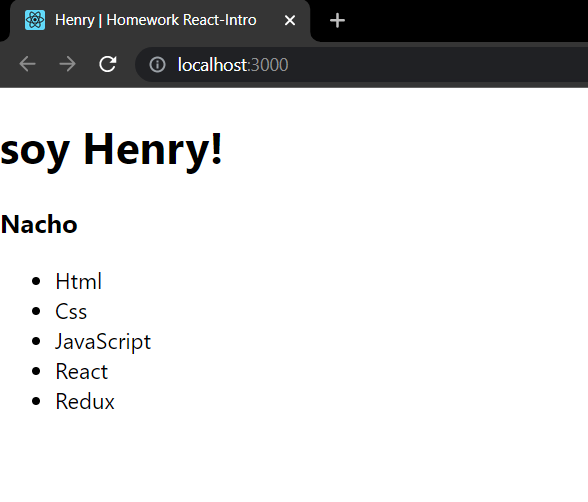
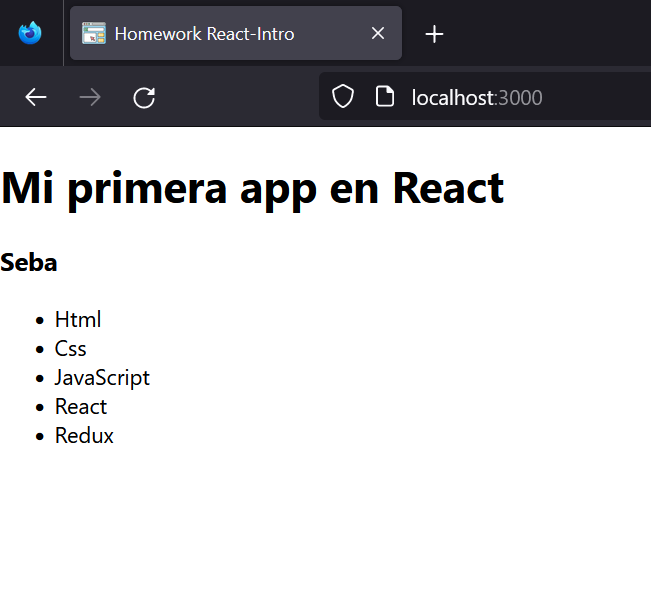
modificaciones y migracion a vite de react intro

diff --git a/06-React-Intro/demo/demo.html b/06-React-Intro/demo/demo.html
@@ -2,7 +2,7 @@
 <html>
 <head>
   <meta charset="utf-8"/>
-  <title>Henry - React Demo 1</title>
+  <title>React Demo 1</title>
 </head>
 <body>
   <div id='app'></div>
@@ -20,8 +20,8 @@
   // };
 
   // const user = {
-  //   firstName: 'Toni',
-  //   lastName: 'Tralice'
+  //   firstName: 'Seba',
+  //   lastName: 'Cerutti'
   // };
 
   // const element = (
@@ -32,18 +32,18 @@
 
   // const personas = [
   //   {
-  //     name: 'Toni',
-  //     lastname: 'Tralice',
+  //     name: 'Seba',
+  //     lastname: 'Cerutti',
   //     id: 0
   //   },
   //   {
-  //     name: 'Fran',
-  //     lastname: 'Etcheverri',
+  //     name: 'Santiago',
+  //     lastname: 'Perez',
   //     id: 1
   //   },
   //   {
-  //     name: 'Agustin',
-  //     lastname: 'Amani',
+  //     name: 'Pepito',
+  //     lastname: 'Dominguez',
   //     id: 2
   //   }
   // ]

diff --git a/04-Ajax/homework/server.js b/04-Ajax/homework/server.js
@@ -12,39 +12,39 @@ function getNewId() {
 let amigos = [
   {
     id: 1,
-    name: "Toni",
+    name: "Pepe",
     age: 30,
-    email: "toni@henry.com"
+    email: "pepe@pepe.com"
   },
   {
     id: 2,
     name: "Emi",
     age: 32,
-    email: "emi@henry.com"
+    email: "emi@emi.com"
   },
   {
     id: 3,
     name: "Martin",
     age: 35,
-    email: "martin@henry.com"
+    email: "martin@martin.com"
   },
   {
     id: 4,
     name: "Jimmy",
     age: 35,
-    email: "jimmy@henry.com"
+    email: "jimmy@jimmy.com"
   },
   {
     id: 5,
     name: "Franco",
     age: 67,
-    email: "franco@gmail.com"
+    email: "franco@franco.com"
   },
   {
     id: 6,
     name: "Manu",
     age: 47,
-    email: "manu@henry.com"
+    email: "manu@manu.com"
   }
 ];
 

diff --git a/06-React-Intro/homework/01 - Exercises/index.html b/06-React-Intro/homework/01 - Exercises/index.html
@@ -1,0 +1,16 @@
+<!DOCTYPE html>
+<html lang="en">
+  <head>
+    <meta charset="utf-8" />
+    <link rel="icon" href="/favicon.ico" />
+    <meta name="viewport" content="width=device-width, initial-scale=1" />
+    <meta name="theme-color" content="#000000" />
+    <link rel="apple-touch-icon" href="%PUBLIC_URL%/logo192.png" />
+    <link rel="manifest" href="%PUBLIC_URL%/manifest.json" />
+    <title>Homework React-Intro</title>
+  </head>
+  <body>
+    <div id="root"></div>
+    <script type="module" src="./src/main.jsx"></script>
+  </body>
+</html>

diff --git a/03-ES6/homework/SpecRunner.html b/03-ES6/homework/SpecRunner.html
@@ -23,7 +23,6 @@
   <h1>Selectores Tests</h1>
   <h2 class='lead big' id='pagetitle'>My Photos</h2>
   <div class='photos'>
-    <img src='https://via.placeholder.com/150x50/FFFF00/000000?text=SoyHenry' class='photo'>
     <img src='https://via.placeholder.com/150x50/000000/FFFFFF?text=ES6' class='photo'>
     <img src='https://via.placeholder.com/150x50/000000/FFFFFF?text=BOOM' class='photo'>
   </div>
@@ -41,7 +40,6 @@
   </div>
 
   <p class='small'>Copyright Notice for no one in particular.</p>
-  <p class='small'>Soy Henry</p>
 
 <hr>
 </body>

diff --git a/01-DOM/homework/index.html b/01-DOM/homework/index.html
@@ -2,14 +2,13 @@
 
 <head>
     <meta charset="utf-8">
-    <title>Henry</title>
+    <title>DOM Homework</title>
     <link rel="stylesheet" href="./assets/style.css">
     <script type="text/javascript" src="./DOMhomework.js" async></script>
 </head>
 
 <body>
     <div id="header">
-        <a href="https://www.soyhenry.com/" target="_blank_"><img src="./assets/henry.png" /></a>
         <span>DOM Homework</span>
     </div>
     <h1>To-Do App</h1>

diff --git a/06-React-Intro/demo/demo-webpack/app.js b/06-React-Intro/demo/demo-webpack/app.js
@@ -25,8 +25,8 @@ const musicos = [
 function App() {
   return (
     <div>
-      <Saludo nombre='Soy Henry' lang='en'/>
-      <SaludoFuncional nombre='Soy Henry' lang='es'/>
+      <Saludo nombre='Matesito' lang='en'/>
+      <SaludoFuncional nombre='Matesito' lang='es'/>
       <Musicos musicos={musicos} />
     </div>
   )

diff --git a/06-React-Intro/homework/01 - Exercises/src/main.jsx b/06-React-Intro/homework/01 - Exercises/src/main.jsx
@@ -1,0 +1,10 @@
+import React from 'react'
+import ReactDOM from 'react-dom/client'
+import './index.css'
+import App from './App'
+
+ReactDOM.createRoot(document.getElementById("root")).render(
+  <React.StrictMode>
+    <App/>
+  </React.StrictMode>,
+)

diff --git a/05-Bundlers/demo/src/modulo1.js b/05-Bundlers/demo/src/modulo1.js
@@ -6,7 +6,7 @@ console.log('se ejecuto el codigo de este modulo');
 _.each(['estoy', 'usando', 'underscore', 'en el', 'browser'], console.log);
 
 var objeto = {
-  henry: true,
+  jose: true,
   bundeler: 'webpack',
 }
 

diff --git a/06-React-Intro/homework/01 - Exercises/vite.config.js b/06-React-Intro/homework/01 - Exercises/vite.config.js
@@ -1,0 +1,10 @@
+import { defineConfig } from 'vite'
+import react from '@vitejs/plugin-react'
+
+// https://vitejs.dev/config/
+export default defineConfig({
+  plugins: [react()],
+  server:{
+    port: 3000
+  }
+})

diff --git a/05-Bundlers/demo/src/index.js b/05-Bundlers/demo/src/index.js
@@ -1,6 +1,6 @@
 var modulo = require('./modulo1.js');
 
-console.log(modulo.henry);
+console.log(modulo.jose);
 console.log(modulo.bundeler);
 
 console.log('Entry Point');

diff --git a/02-CSS/homework/responsive-web/index.html b/02-CSS/homework/responsive-web/index.html
@@ -69,10 +69,6 @@
 
     </section>
 
-    <footer>
-      <p>Henry</p>
-    </footer>
-
   </div>
 </body>
 
